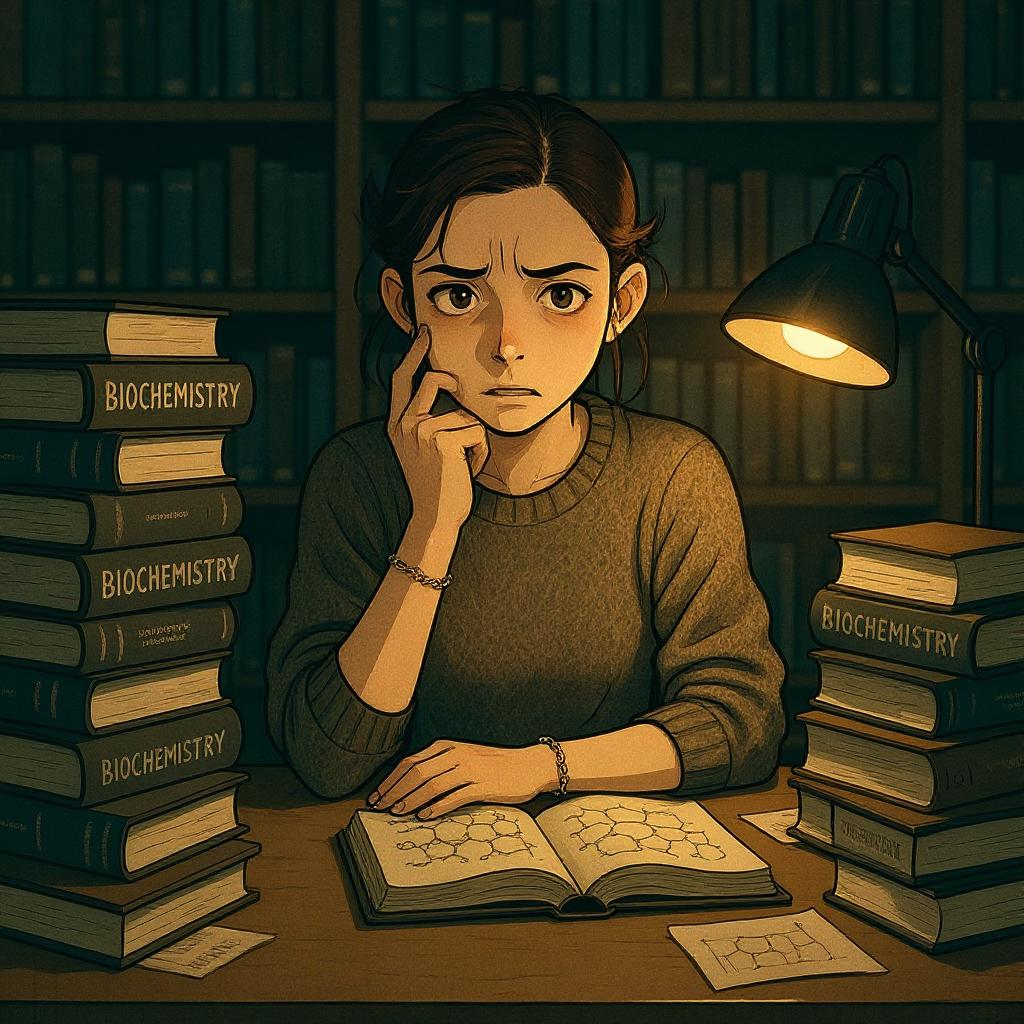
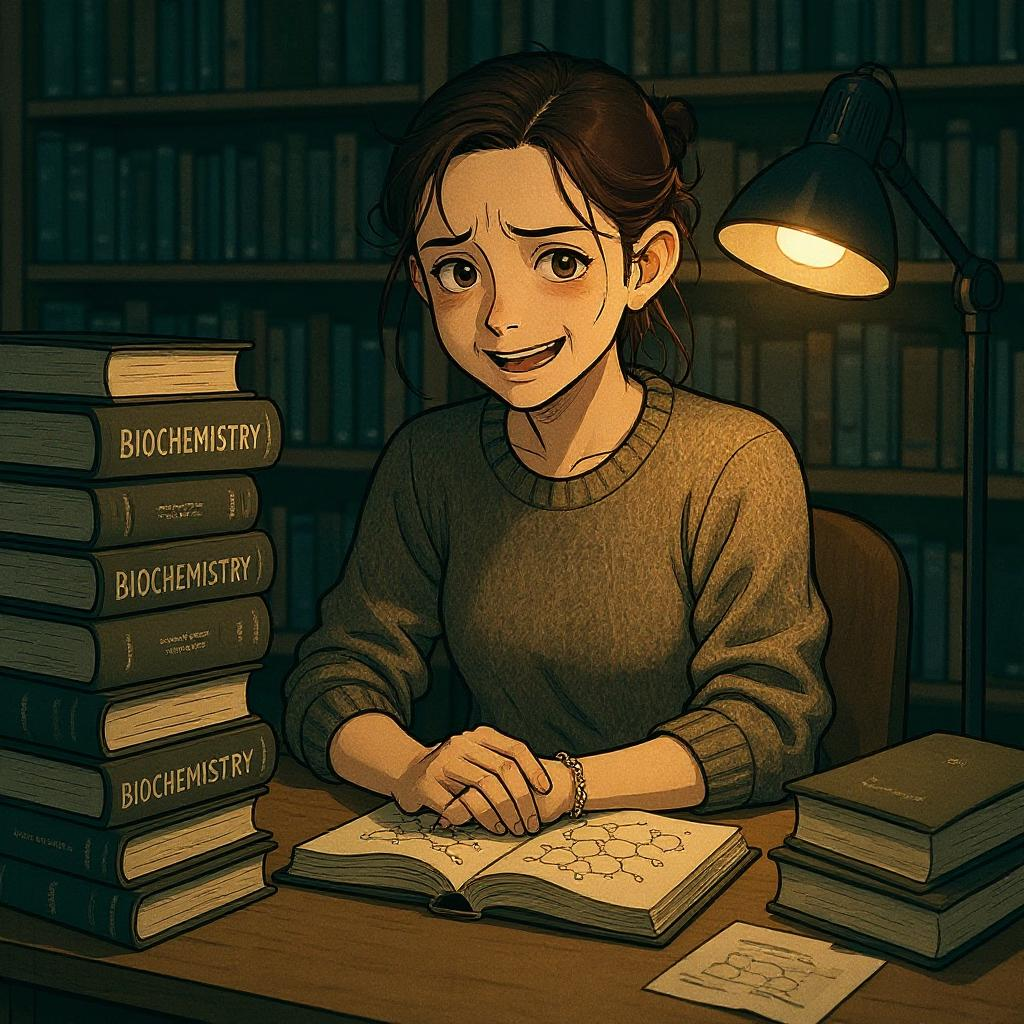
make happy

diff --git a/create_image.py b/create_image.py
@@ -21,17 +21,17 @@ if False:
 # Teri: "voice": "Orion"
 # Her: "voice": "Aurora"
 # Narrator: "voice": "Ember"
-# output_wav_file_url = replicate.run(
-#     "resemble-ai/chatterbox-pro",
-#     input={
-#         "pitch": "medium",
-#         "voice": "Orion",
-#         "prompt": "hello!",
-#         "temperature": 0.8,
-#         "exaggeration": 0.5,
-#     },
-# )
-# print(output_wav_file_url)
+output_wav_file_url = replicate.run(
+    "resemble-ai/chatterbox-pro",
+    input={
+        "pitch": "medium",
+        "voice": "Orion",
+        "prompt": "hello!",
+        "temperature": 0.8,
+        "exaggeration": 0.5,
+    },
+)
+print(output_wav_file_url)
 
 import replicate
 import requests
@@ -205,7 +205,7 @@ def generate_and_save_image(prompt_data, index, image_urls, output_dir):
         output_url = replicate.run(
             "black-forest-labs/flux-kontext-pro",
             input={
-                "prompt": prompt_text,
+                "prompt": prompt_text + " Make the characters be generally happy",
                 "input_image": input_image_url,
                 "aspect_ratio": "match_input_image",  # Maintain aspect ratio of base image
                 "output_format": "jpg",
@@ -266,4 +266,4 @@ def create_comic_story(prompts, image_urls, output_dir):
 
 
 if __name__ == "__main__":
-    create_comic_story(COMIC_PROMPTS, IMAGE_URLS, OUTPUT_DIR)
+    # create_comic_story(COMIC_PROMPTS, IMAGE_URLS, OUTPUT_DIR)
